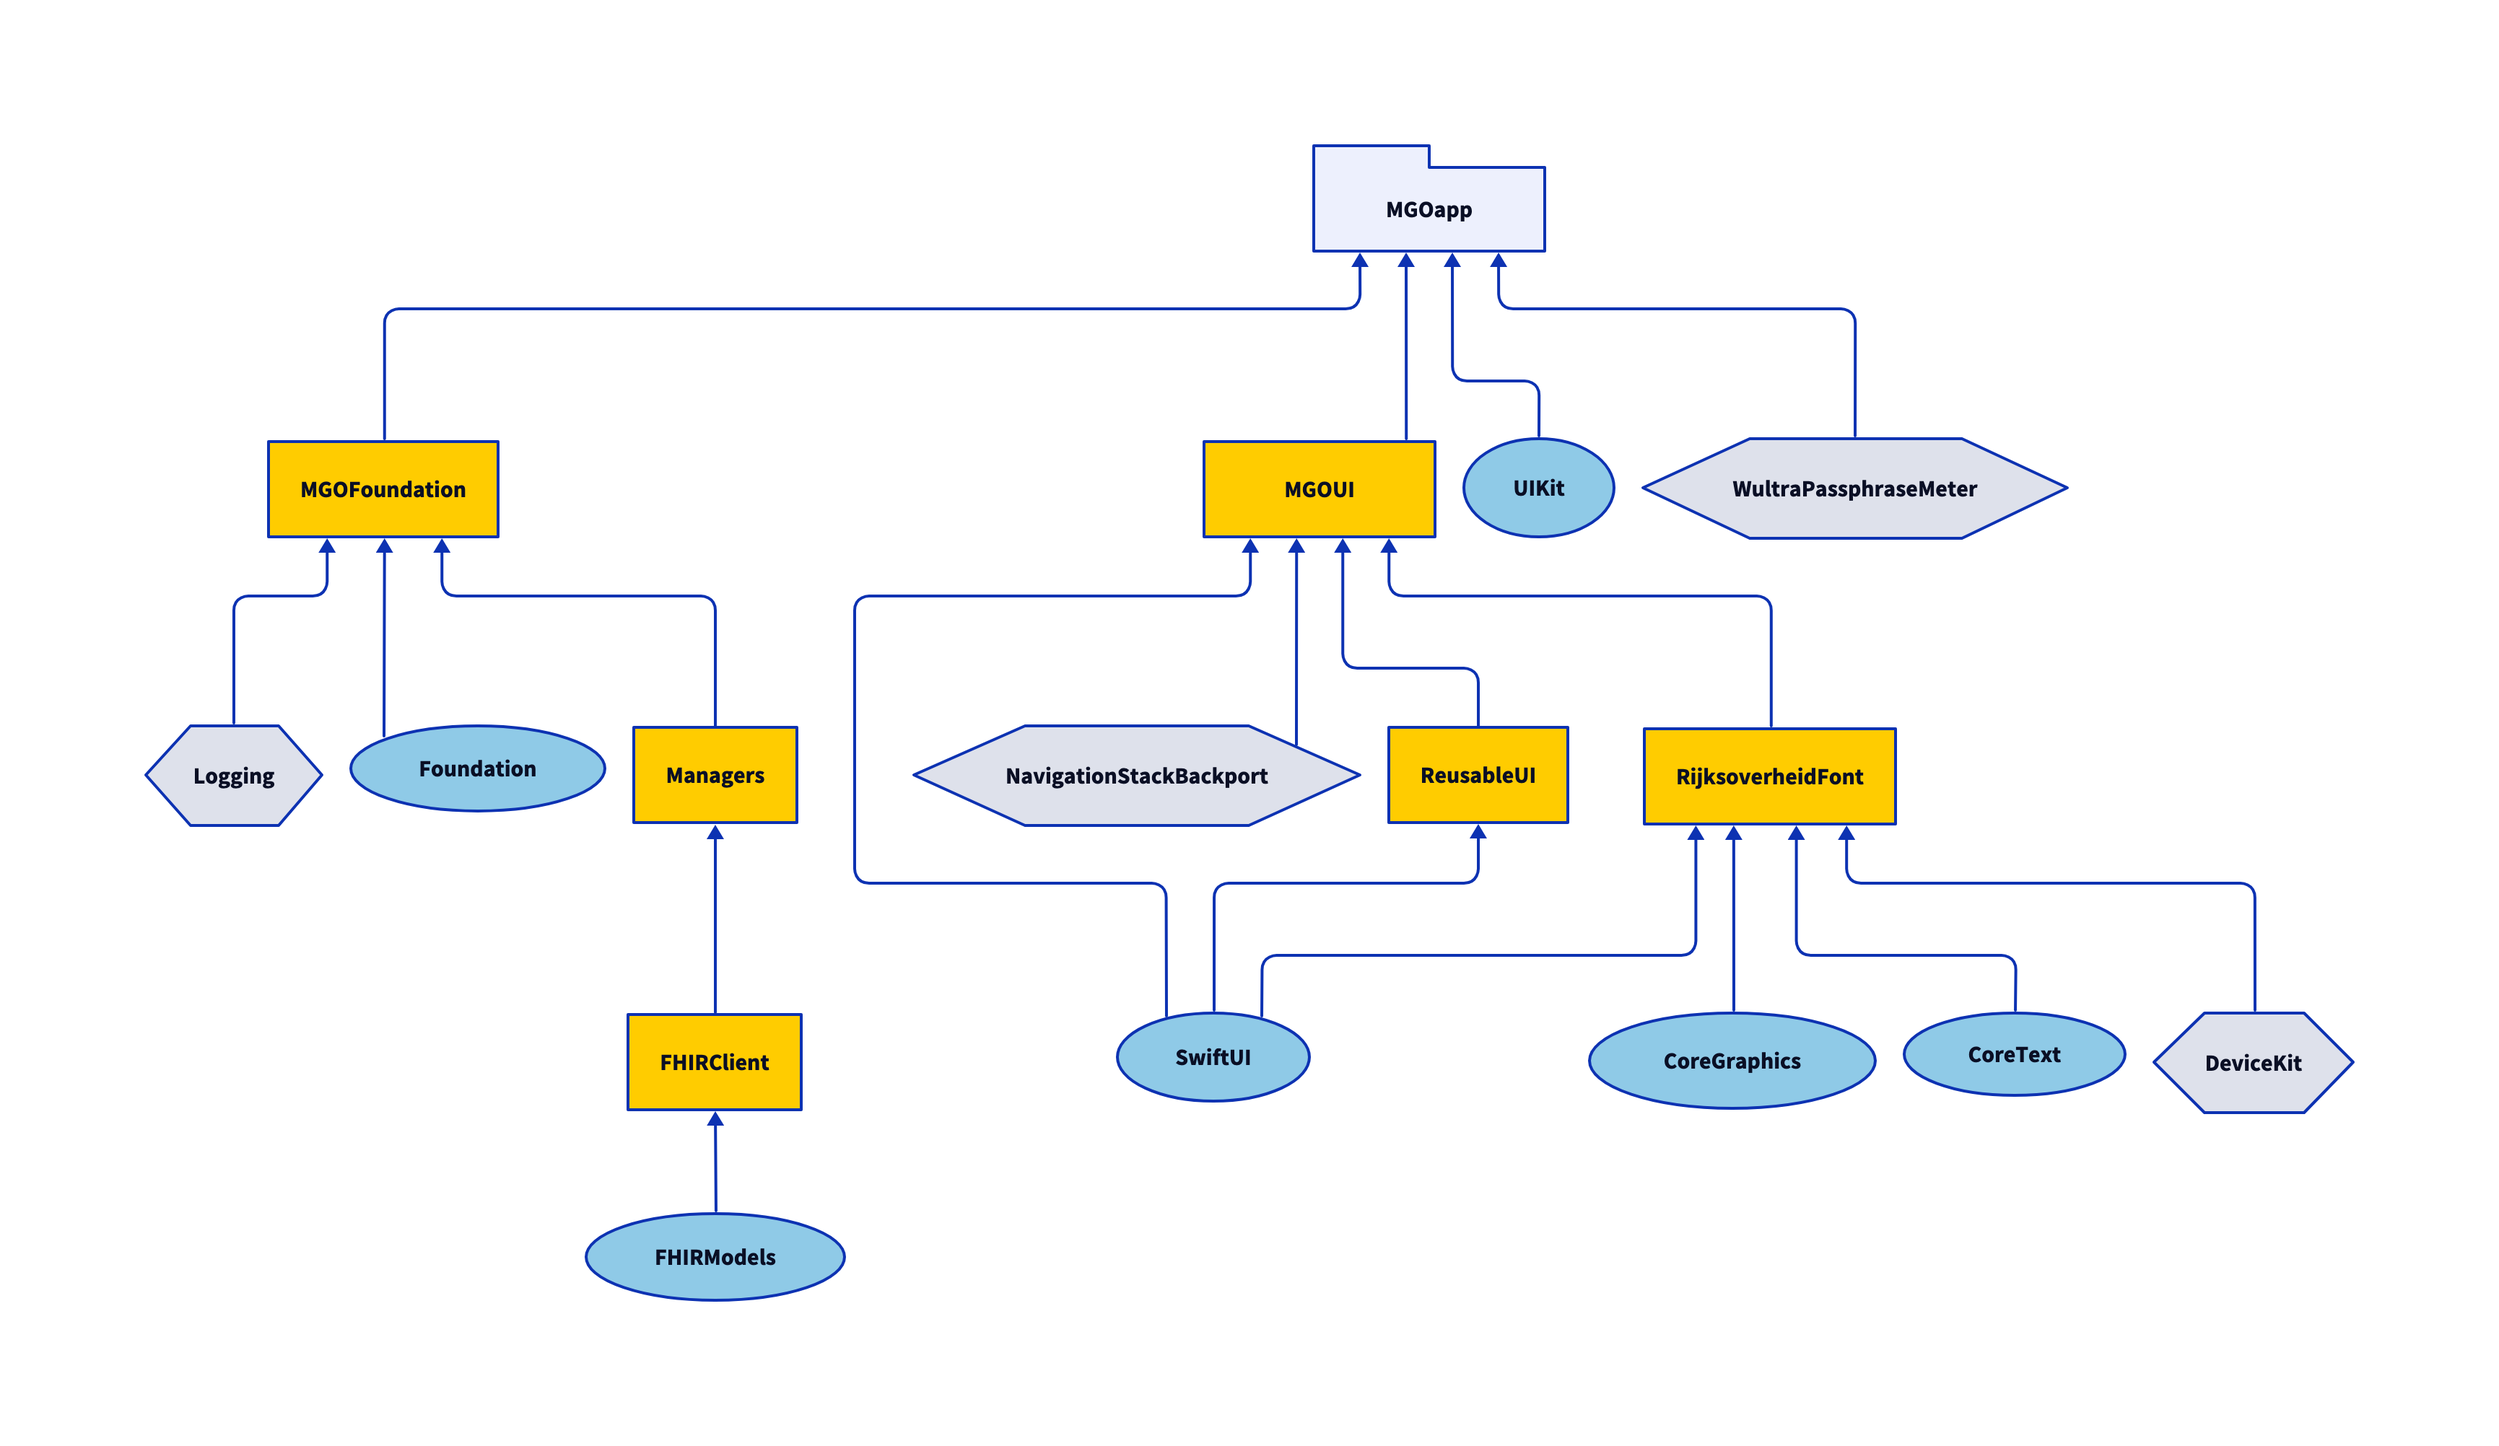
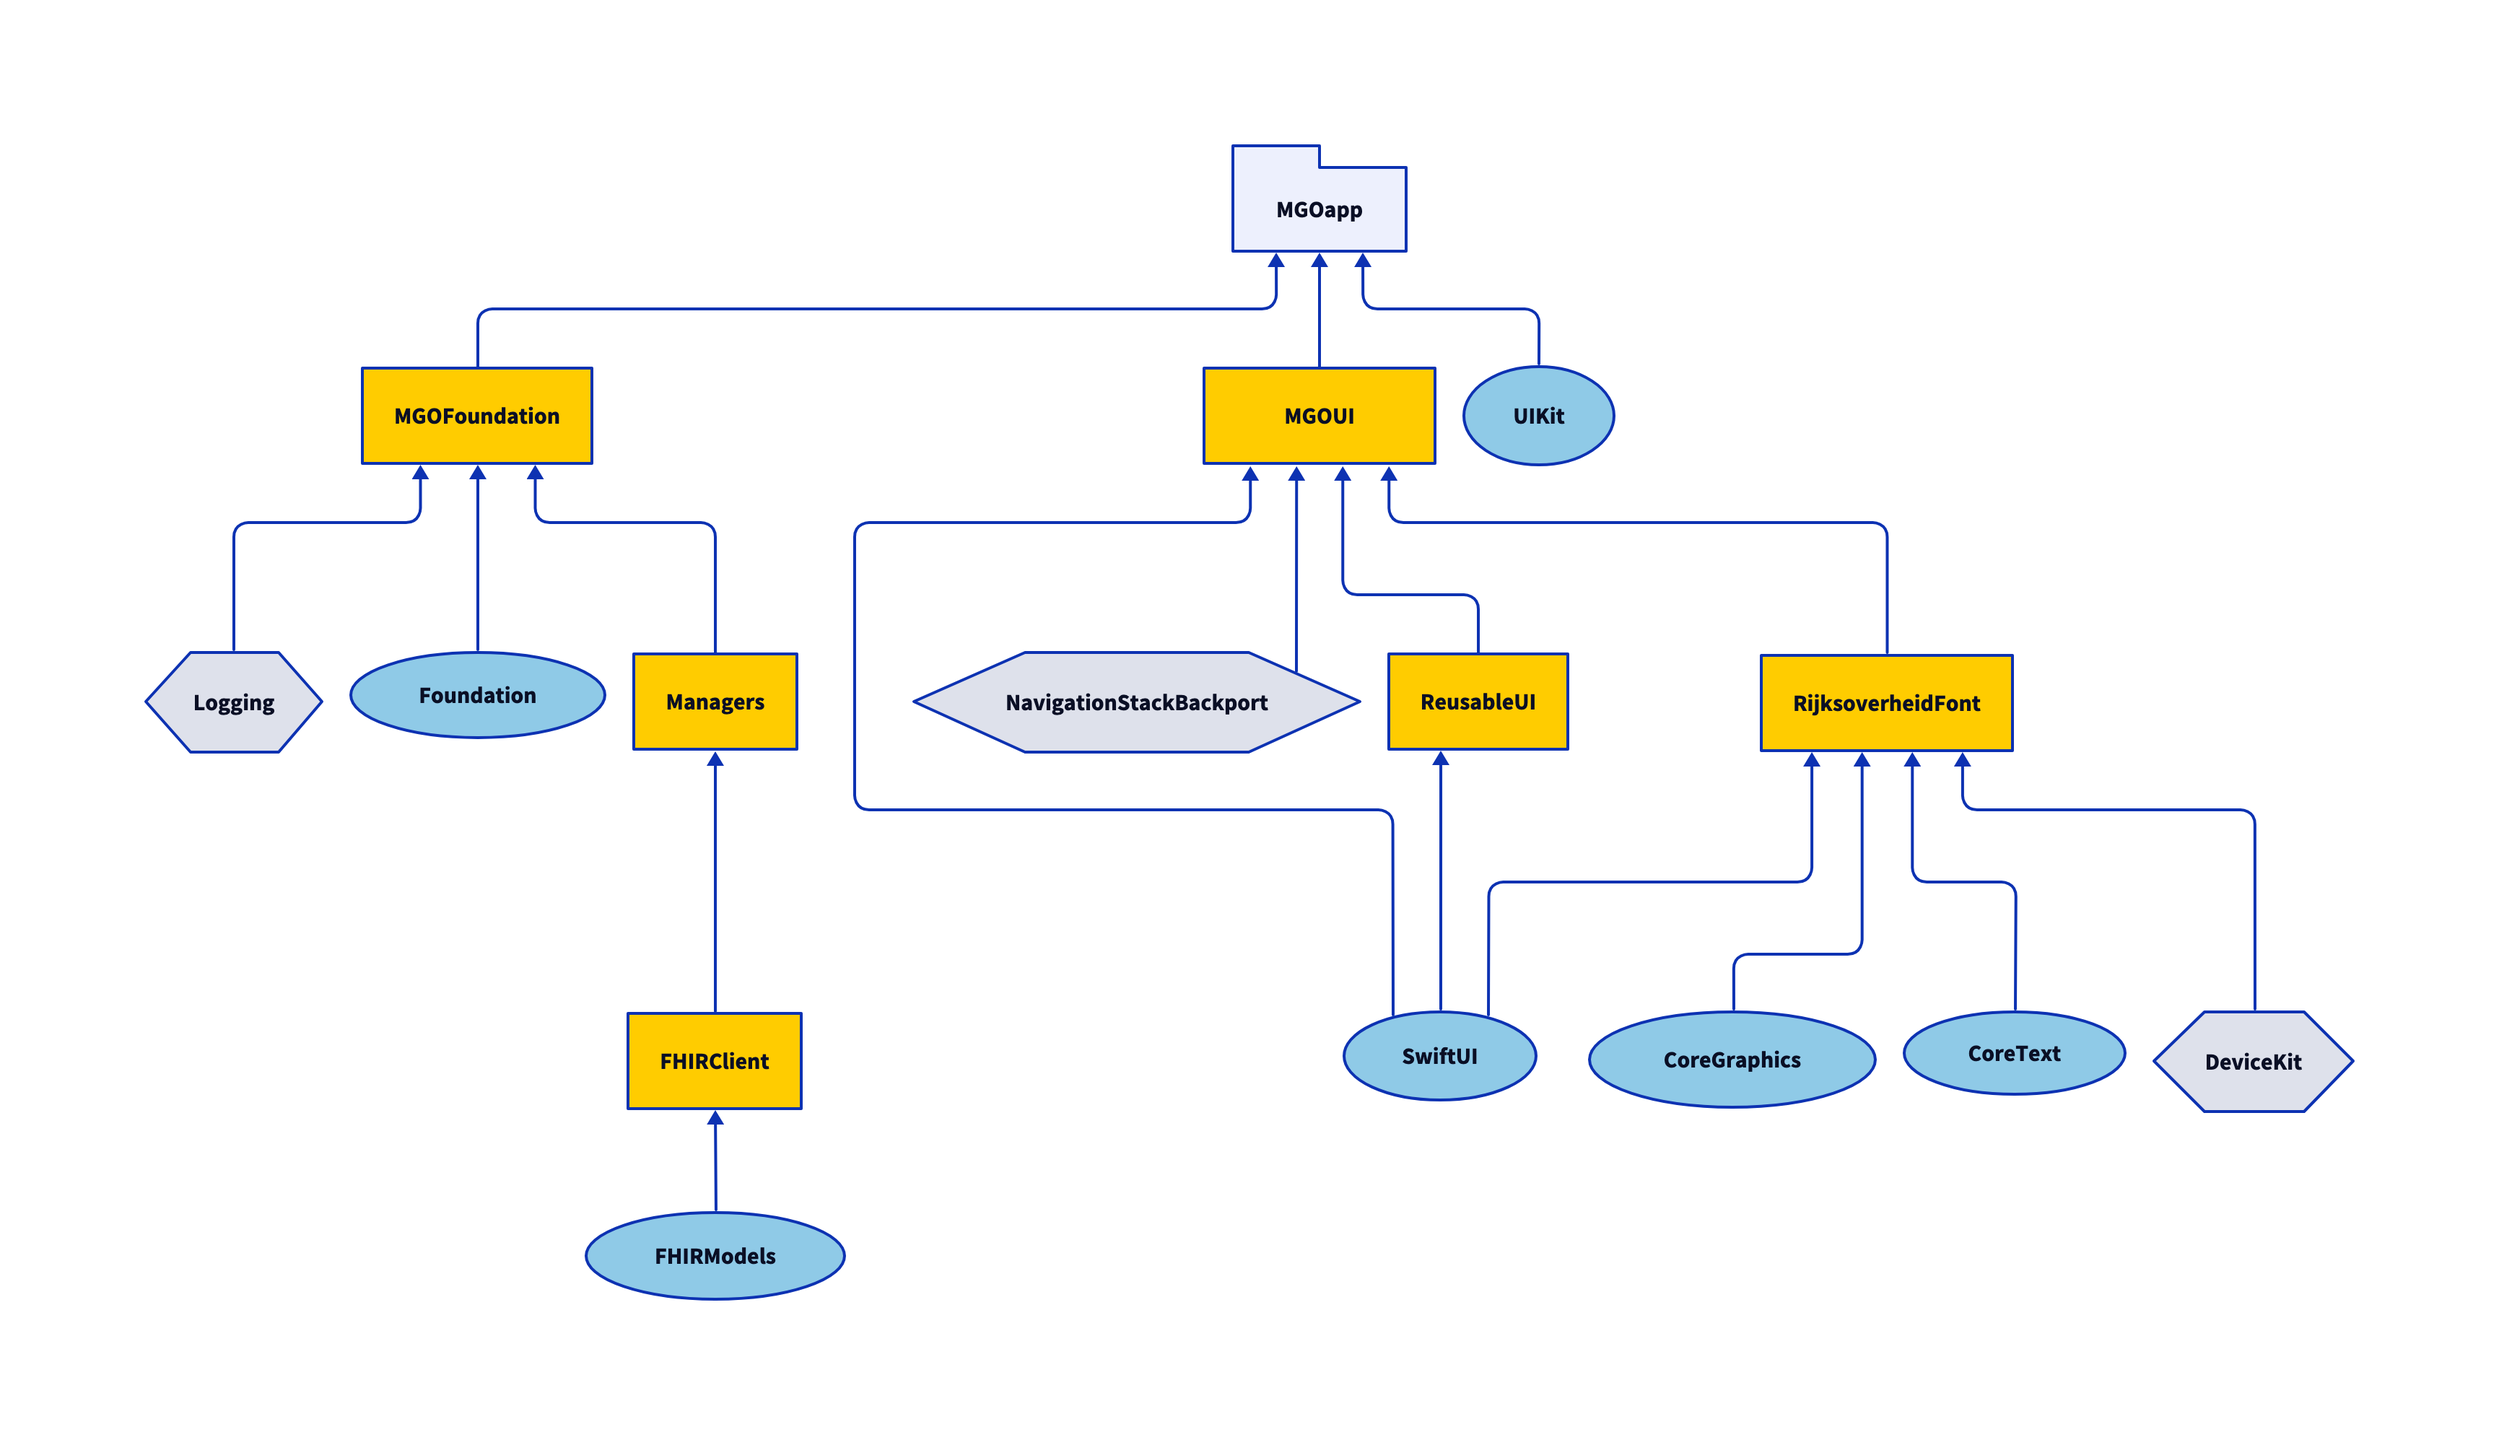
refactor: Replaced Wultra passmeter with own implementation

diff --git a/Sources/MGO/Features/LocalAuthentication/Accesscode/AccessCodeStrengthMeter.swift b/Sources/MGO/Features/LocalAuthentication/Accesscode/AccessCodeStrengthMeter.swift
@@ -6,7 +6,6 @@
  */
 
 import MGOFoundation
-import WultraPassphraseMeter
 
 /// Protocol for Access Code Strenght Validation
 protocol AccessCodeStrengthValidation {
@@ -24,17 +23,37 @@ class AccessCodeStrengthMeter: AccessCodeStrengthValidation {
 	/// - Returns: true if the code is strong enough
 	func validate(_ code: String) -> Bool {
 		
-		let result = PasswordTester.shared.testPin(code)
+		return isNumeric(code) && !isFrequentlyUsed(code) && isUnique(code)
+	}
+	
+	/// Is this code frequently used?
+	/// - Parameter code: the code to check
+	/// - Returns: true if the code is not in the frequently used lst.
+	private func isFrequentlyUsed(_ code: String) -> Bool {
 		
-		return !(
-			// the passcode is in the list of most used passcodes.
-			result.issues.contains(.frequentlyUsed) ||
-			
-			// there is a significant amount of repeating digits in the passcode.
-			result.issues.contains(.repeatingCharacters) ||
-
-			// the passcode doesn't have enough unique digits. (minimum of 3 different digits required)
-			result.issues.contains(.notUnique)
-		)
+		let frequentlyUsed = ["12345", "54321", "13579", "12321", "90210", "38317", "09876", "98765", "01234", "42069"]
+		return frequentlyUsed.contains(code)
+	}
+	
+	/// Is this code unique enough?
+	/// A code is considered unique enough if there are 3 or more different characters (for a code length of 5)
+	/// - Parameter code: the code to check
+	/// - Returns: true if there are 3 or more unique characters in this code
+	private func isUnique(_ code: String) -> Bool {
+		
+		var uniqueChars: [String] = []
+		for element in code where !uniqueChars.contains(String(element)) {
+			uniqueChars.append(String(element))
+		}
+		return uniqueChars.count >= 3
+	}
+	
+	/// Is this a numeric String
+	/// - Parameter code: the code to check
+	/// - Returns: true if all characters are numbers
+	private func isNumeric(_ code: String) -> Bool {
+		
+		let digitsCharacters = CharacterSet(charactersIn: "0123456789")
+		return CharacterSet(charactersIn: code).isSubset(of: digitsCharacters)
 	}
 }

diff --git a/MGOTests/Features/LocalAuthentication/AccessCodeStrengthMeterTests.swift b/MGOTests/Features/LocalAuthentication/AccessCodeStrengthMeterTests.swift
@@ -73,4 +73,18 @@ final class AccessCodeStrengthMeterTests: XCTestCase {
 			expect(result) == true
 		}
 	}
+	
+	func test_notNumeric() {
+		
+		// Given
+		let codes = ["0123A", "WRONG", "0O0o0", "1l1l7"]
+		
+		for code in codes {
+			// When
+			let result = sut.validate(code)
+			
+			// Then
+			expect(result) == false
+		}
+	}
 }
